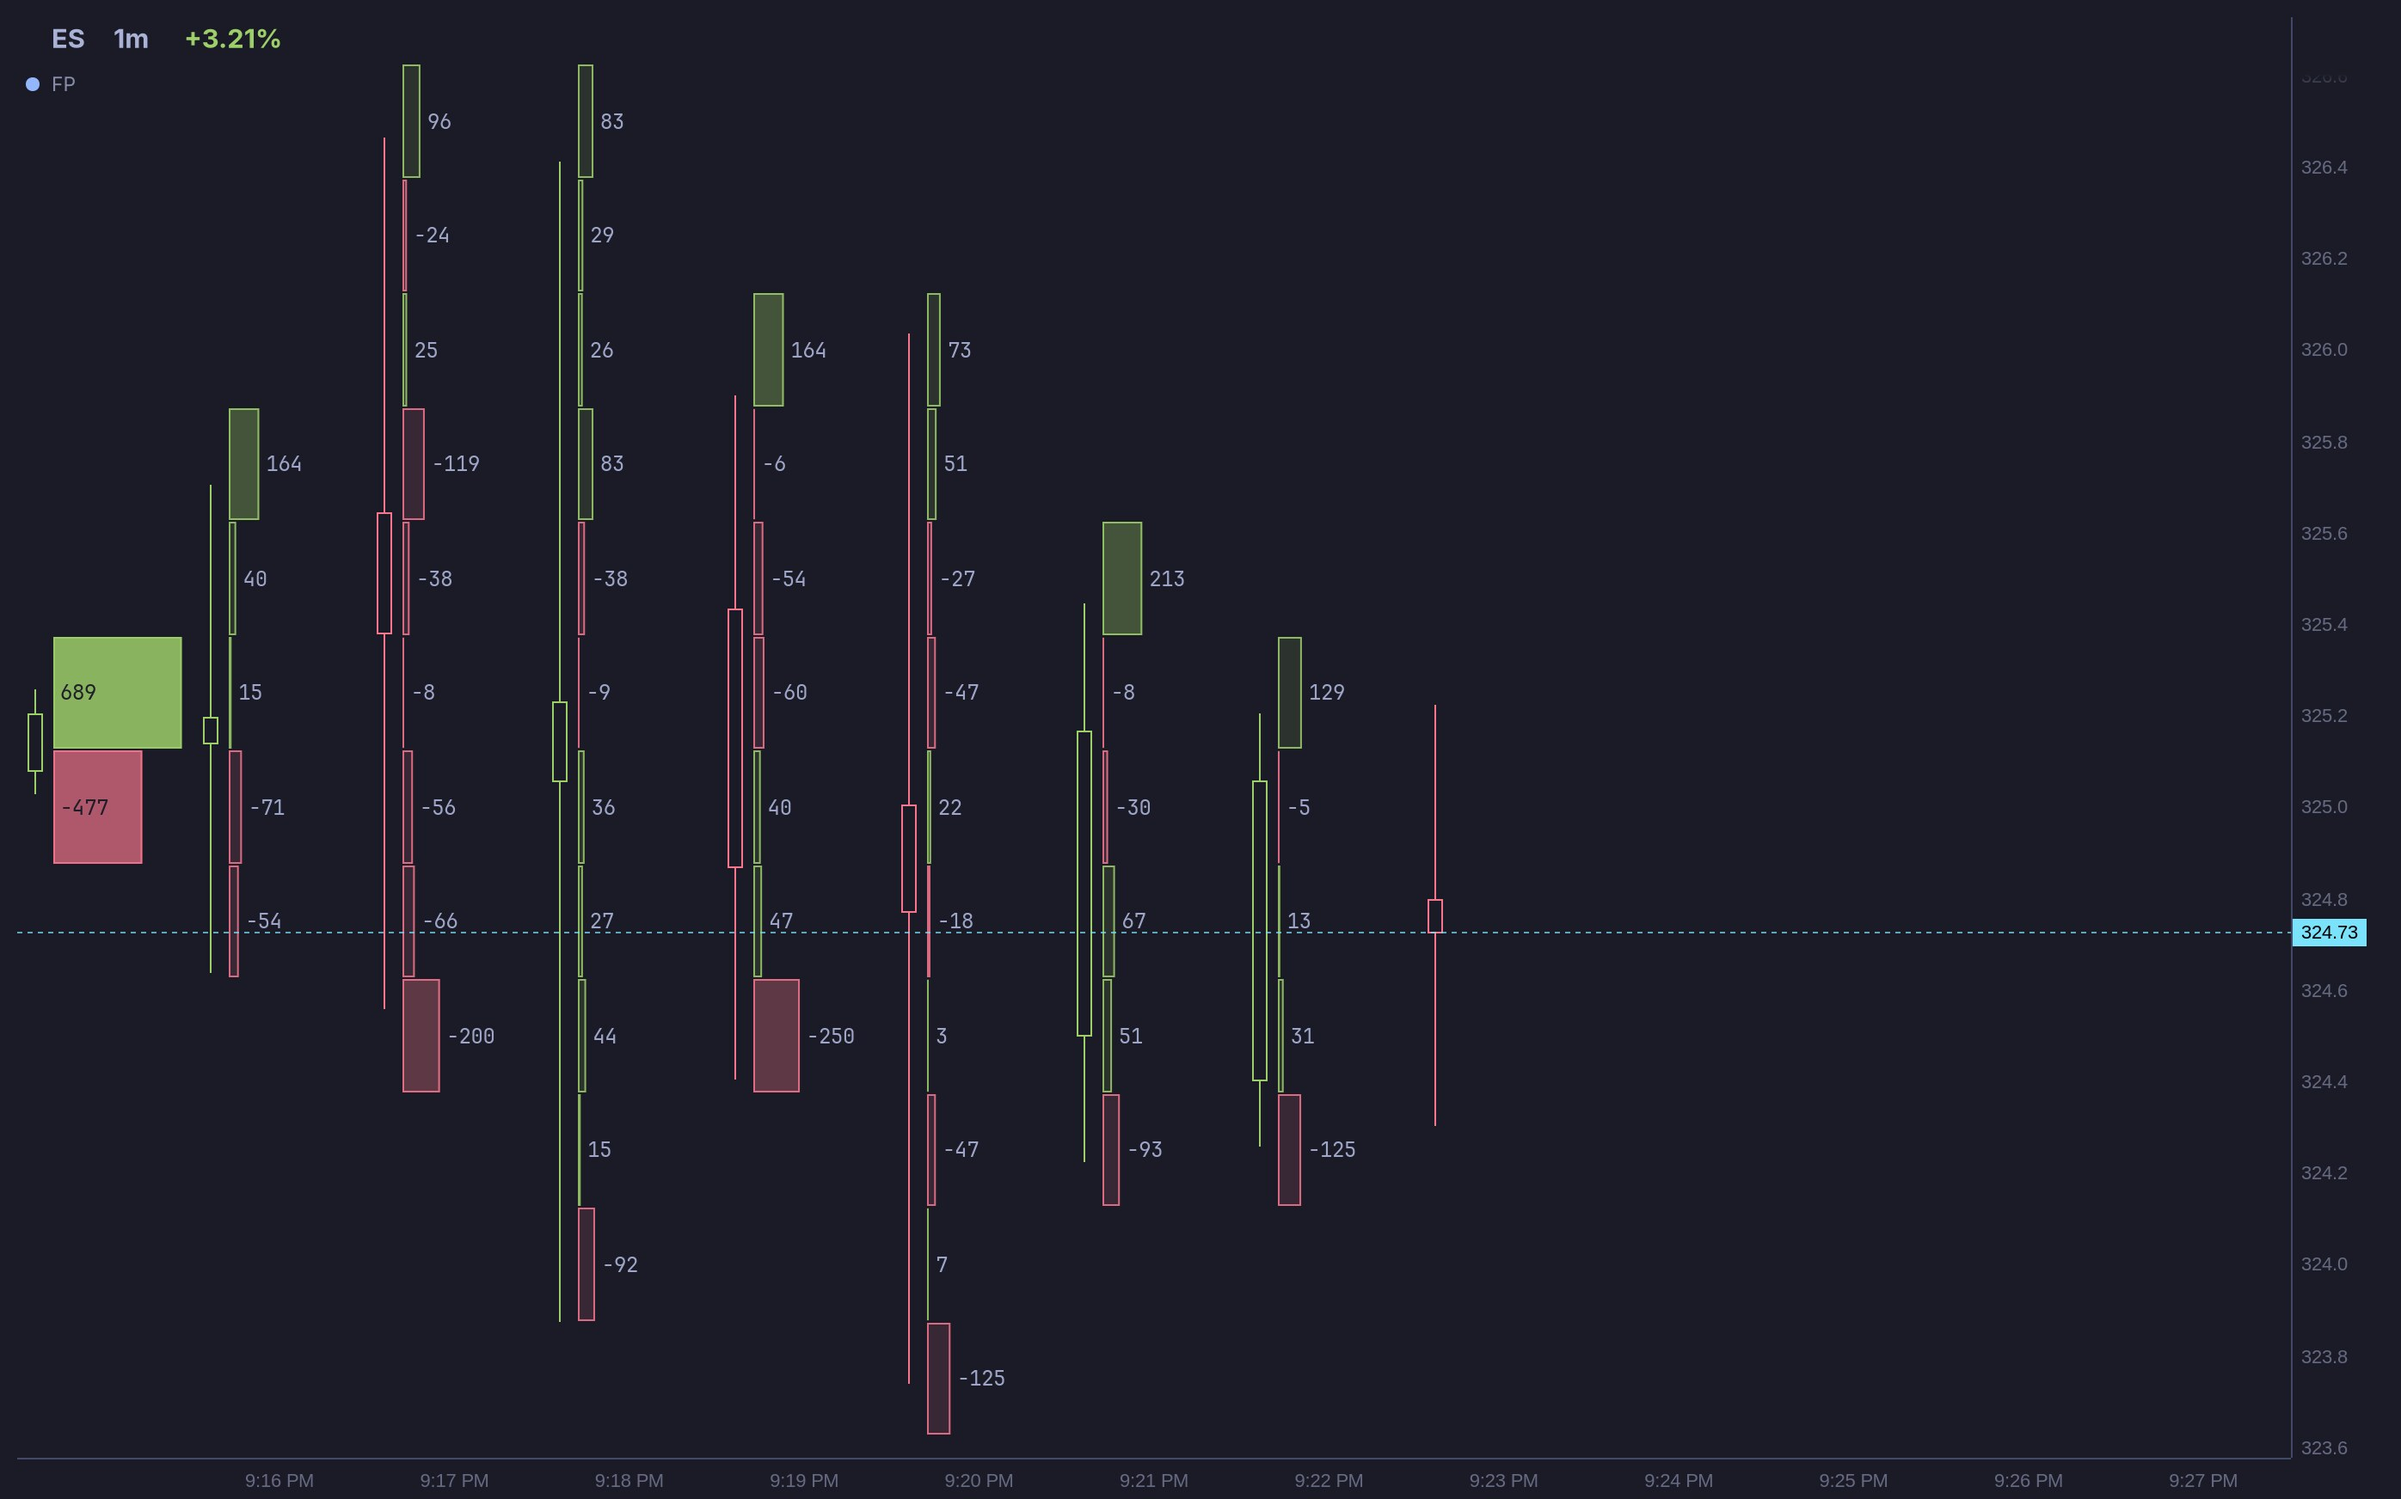
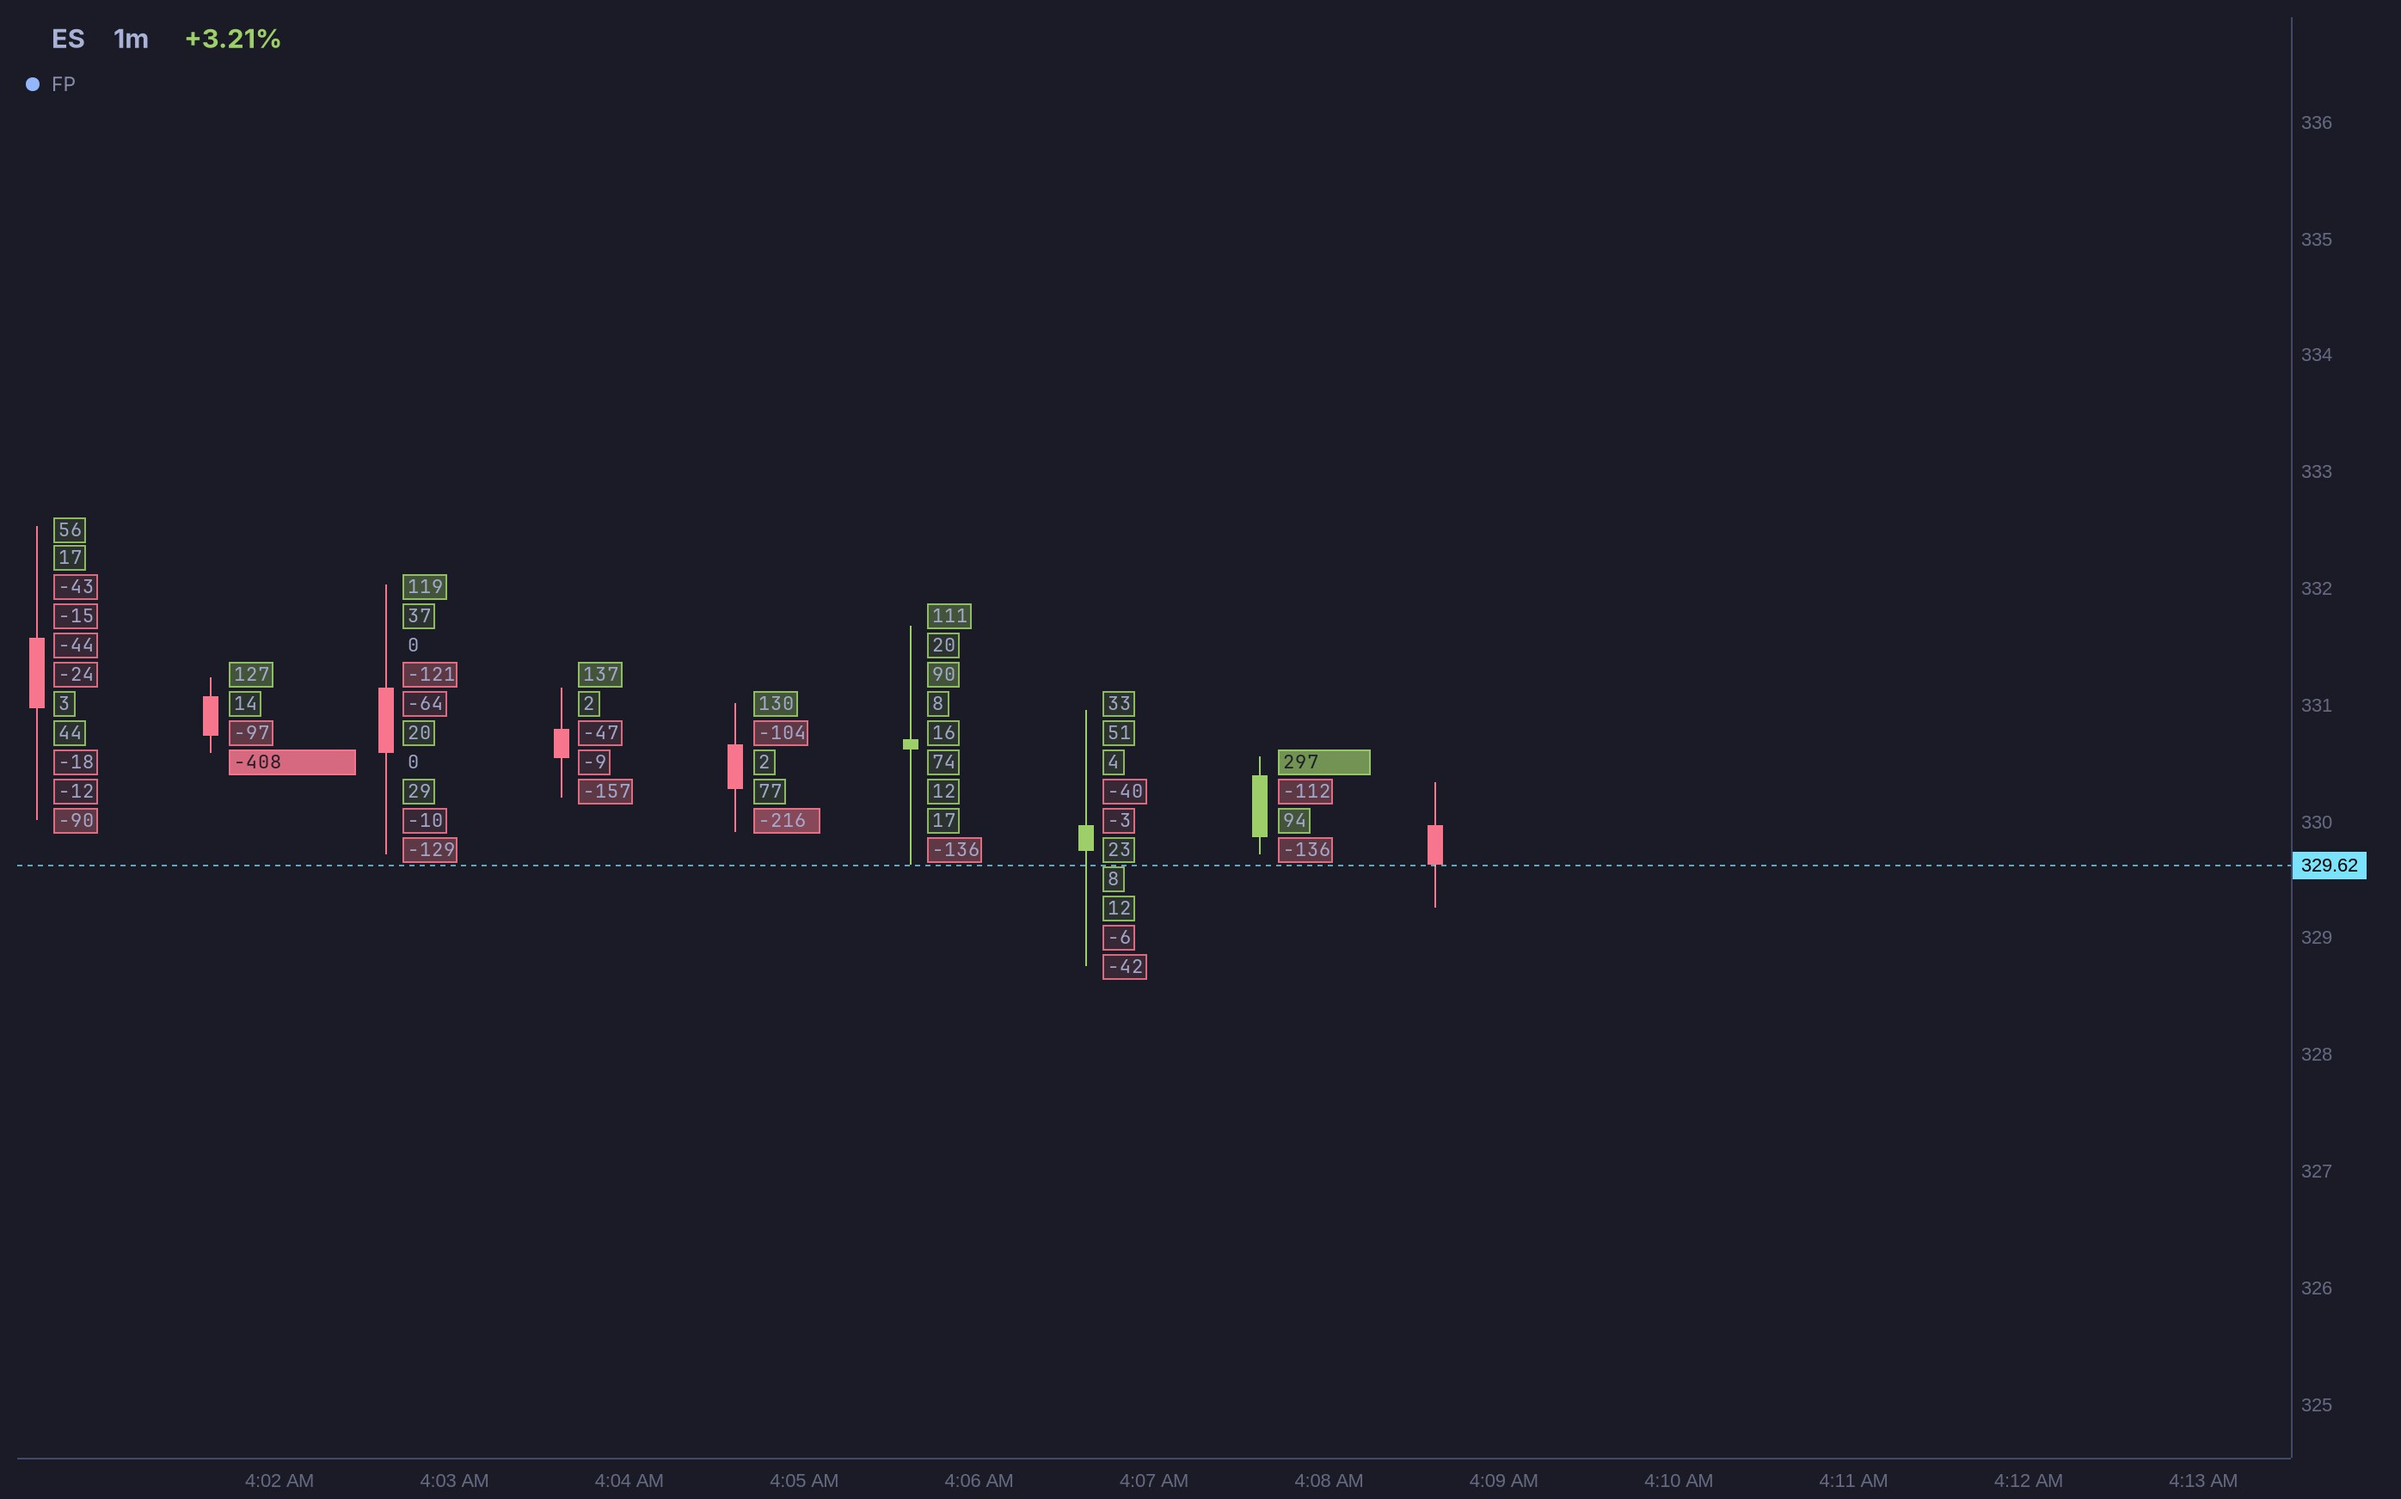
Box each footprint row round its figure, narrow the chart's new columns too, and show the new look in the manual

diff --git a/crates/omacharts-chart/src/view/footprint.rs b/crates/omacharts-chart/src/view/footprint.rs
@@ -395,9 +395,23 @@ fn paint(
             false => strong,
         }
     };
-    let length = |delta: i64, room: f64| match largest {
+    let bar_length = |delta: i64, room: f64| match largest {
         0 => 0.0,
         largest => (room * delta.unsigned_abs() as f64 / largest as f64).max(1.0),
+    };
+    // A row is drawn at least as long as its figure, so the figure sits
+    // inside its box however small the delta: a box round each number, the
+    // bar running on past it as the delta is big.
+    let written = numbers && row_h >= FIGURE_MIN;
+    let advance = figure_size(row_h) * 0.6;
+    let length = |delta: i64, room: f64| {
+        let long = bar_length(delta, room);
+        if !written {
+            return long;
+        }
+        let mut buf = [0u8; 12];
+        let text = rows::short(delta, &mut buf).len() as f64 * advance + 2.0 * INSIDE;
+        long.max(text.min(room)).round()
     };
 
     cr.save().ok();
@@ -497,7 +511,7 @@ fn figures(
 ) {
     const BATCH: usize = 256;
     let row_h = row_y(0).1 - row_y(0).0;
-    let size = (row_h * 0.75).clamp(8.0, FIGURE_SIZE);
+    let size = figure_size(row_h);
     cr.select_font_face(FACE, cairo::FontSlant::Normal, cairo::FontWeight::Normal);
     cr.set_font_size(size);
     let Some(table) = glyphs(cr) else { return };
@@ -545,6 +559,11 @@ fn figures(
             let _ = cr.show_glyphs(&batch[..n]);
         }
     }
+}
+
+/// The figures' type size in a row `row_h` pixels tall.
+fn figure_size(row_h: f64) -> f64 {
+    (row_h * 0.75).clamp(8.0, FIGURE_SIZE)
 }
 
 /// The glyph of each of [`CHARS`], looked up once.

diff --git a/crates/omacharts-chart/src/view.rs b/crates/omacharts-chart/src/view.rs
@@ -999,6 +999,8 @@ impl<'a> Columns<'a> {
             bar_px: self.bar_px,
             start: self.start,
             end: self.end,
+            live: self.live,
+            margin_end: self.margin_end,
             slice: self.slice,
             per: self.per,
             groups: self.groups.clone(),

diff --git a/site/manual/indicators/order-flow/footprint.md b/site/manual/indicators/order-flow/footprint.md
@@ -25,7 +25,7 @@ state:
 capture: bin/headless-window cli chart screenshot --output /tmp/footprint.png; magick /tmp/footprint.png -quality 88 site/assets/manual/indicators/footprint.jpg
 crop: none
 -->
-{% include figure.html src="/assets/manual/indicators/footprint.jpg" alt="ES one-minute bars zoomed in, each a narrow hollow candle beside rows of buying minus selling at each price, with the number written by each row" caption="A footprint on ES 1m, zoomed in, on the synthetic feed." %}
+{% include figure.html src="/assets/manual/indicators/footprint.jpg" alt="ES one-minute bars zoomed in, each a narrow candle beside a stack of thin rows of buying minus selling, one a price, each boxed in its colour with its number inside at its left" caption="A footprint on ES 1m, zoomed in, on the synthetic feed." %}
 
 ## Settings
 
